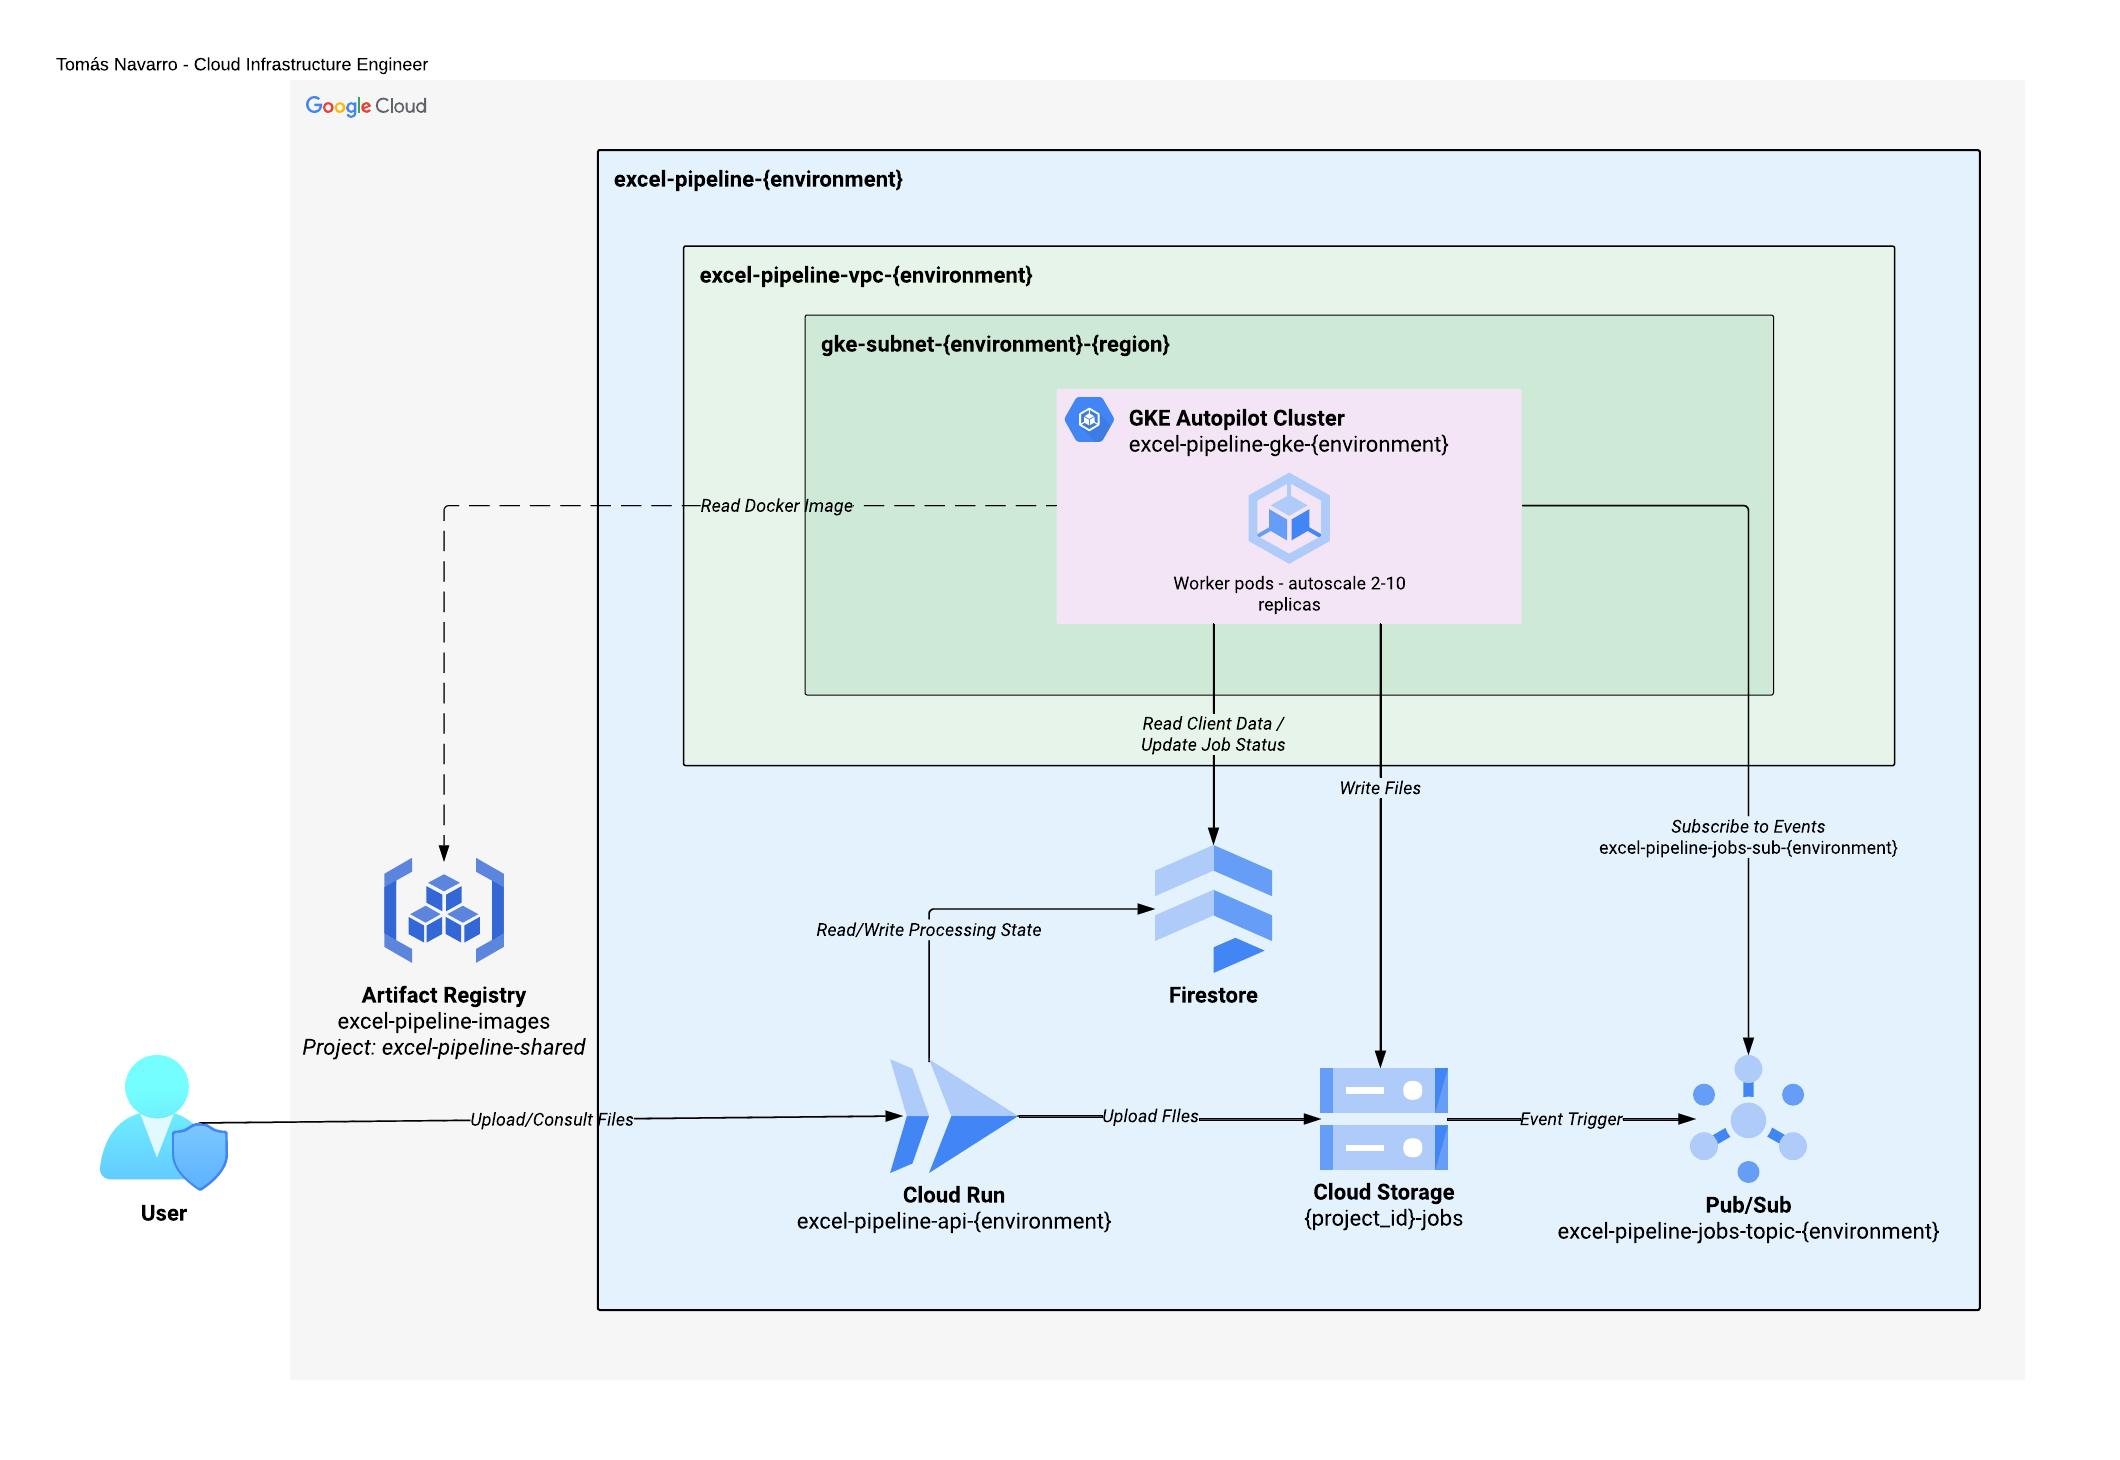
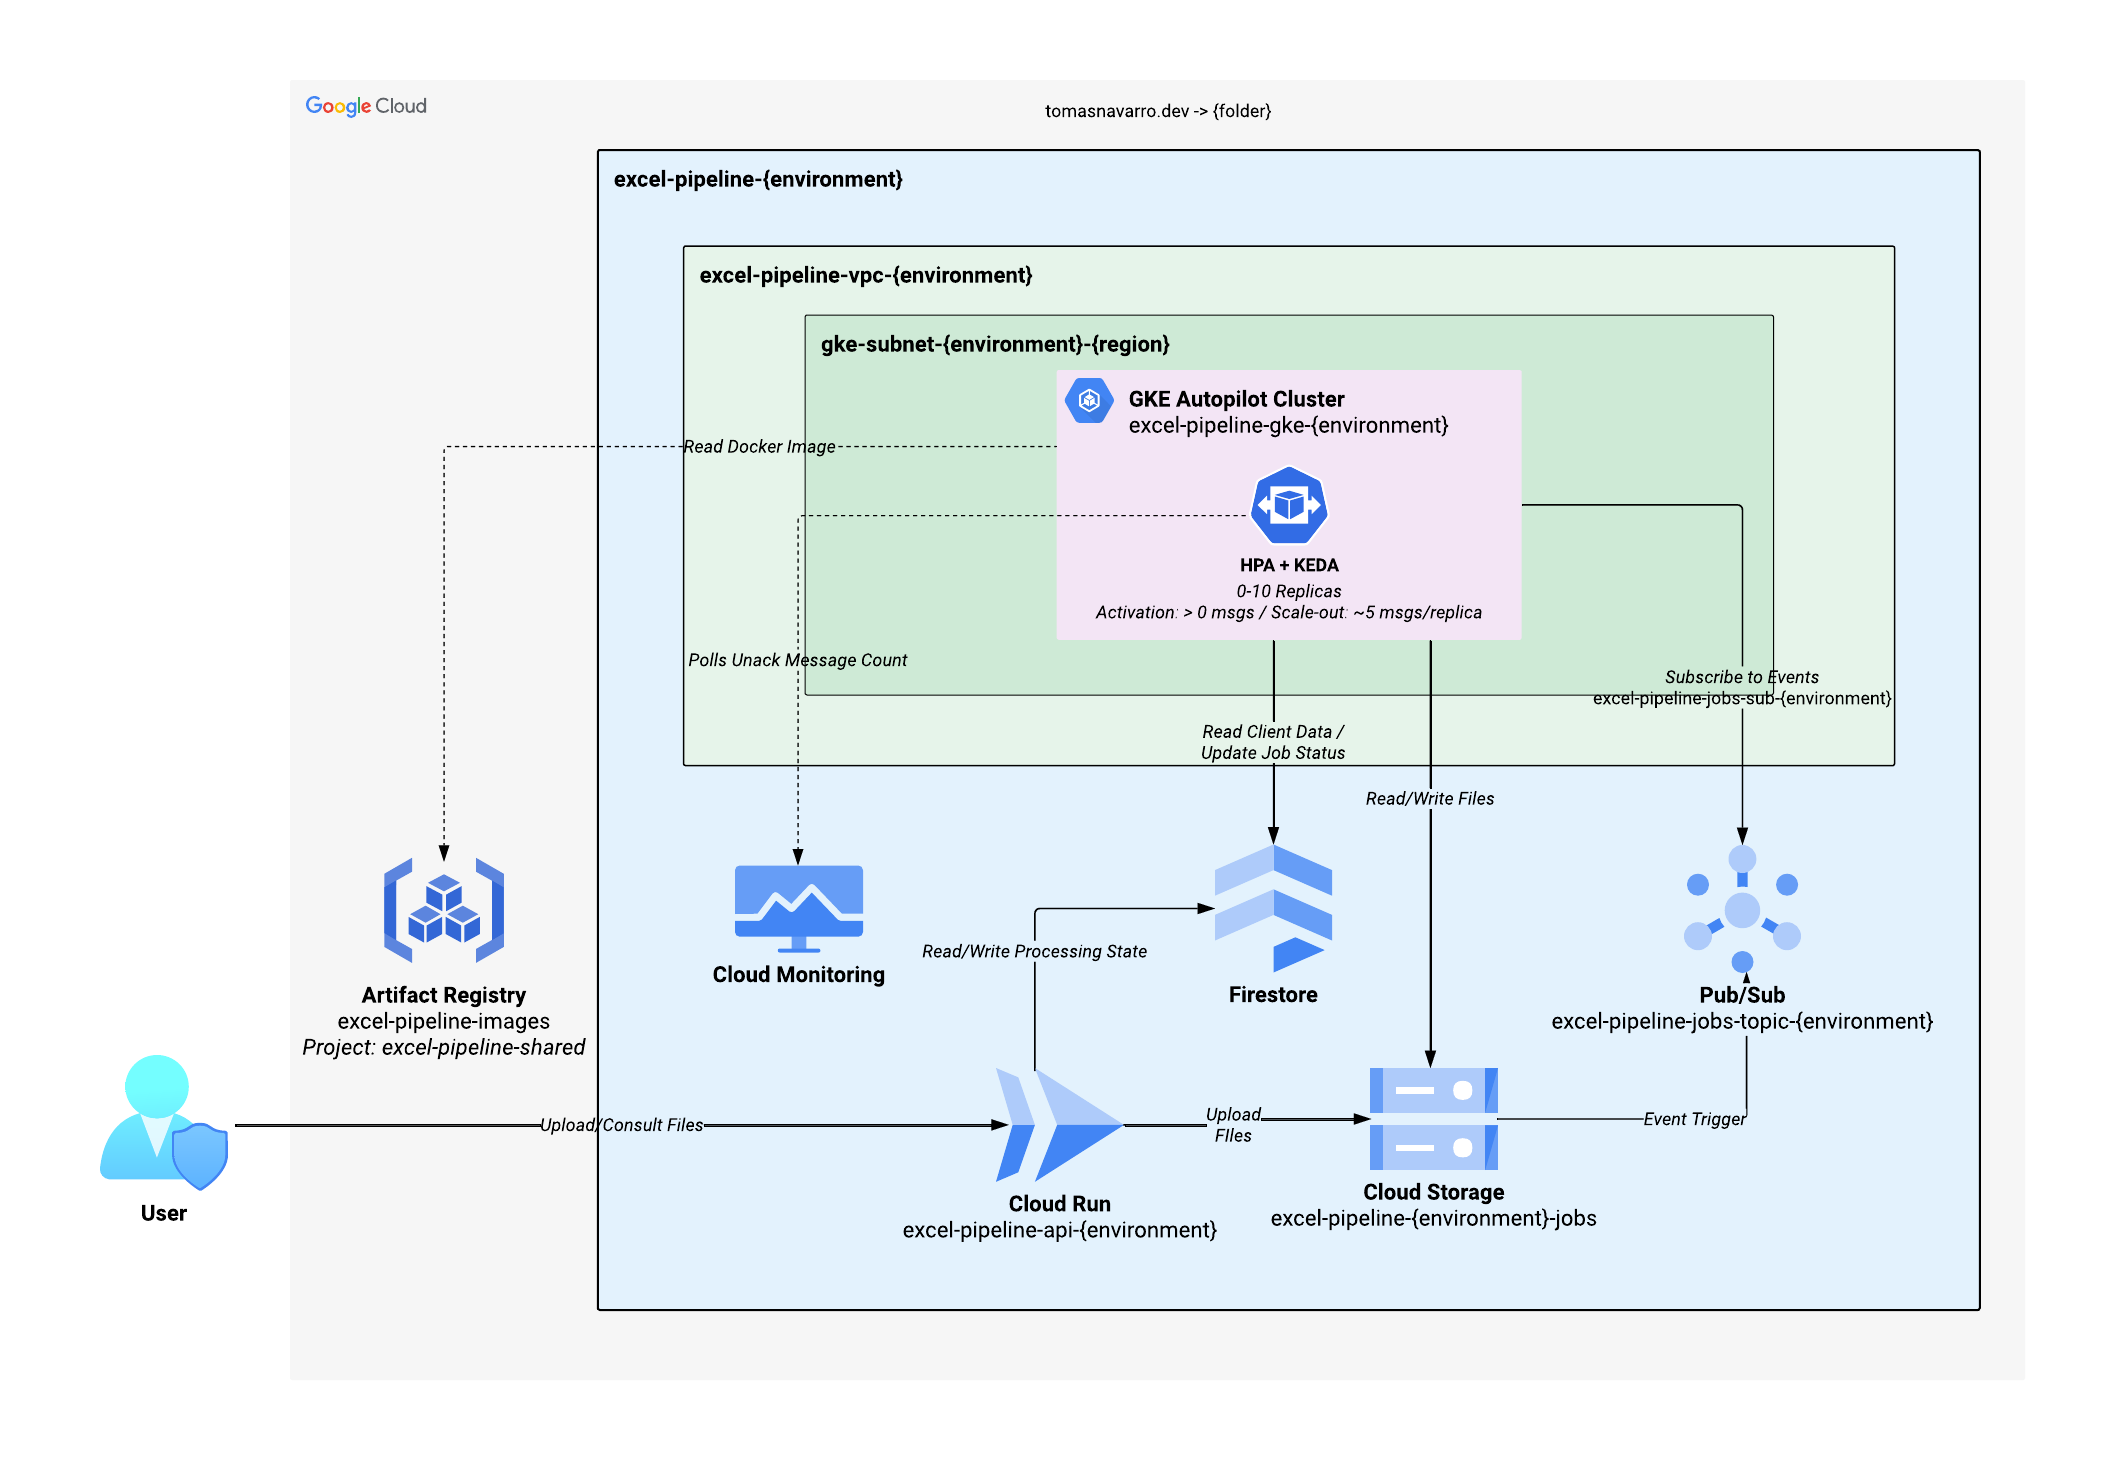
docs: update architecture diagram and README status for KEDA design
Archives the pre-KEDA diagram under docs/architecture/history/ and
replaces the canonical one with the event-driven/scale-to-zero
version. README now reflects networking as done, adds an "in
progress" status for gke (Autopilot, DNS-based control plane
endpoint, KEDA), clarifies Kustomize's scope now that KEDA installs
via Terraform/Helm, and lists KEDA/Helm/Cloud Monitoring in the tech
stack.

diff --git a/README.md b/README.md
@@ -16,7 +16,8 @@ An asynchronous Excel file processing pipeline on Google Cloud:
   (`OBJECT_FINALIZE`) — the API never publishes the event itself, to avoid a
   dual-write.
 - A **worker on GKE** consumes the event, processes the file, writes the
-  result back to GCS, and updates the job status.
+  result back to GCS, and updates the job status — scaling event-driven via
+  **KEDA**, down to 0 replicas at rest, instead of an always-on pod.
 - Dev and prod are fully separate GCP projects (isolated IAM, quotas, and
   billing), each under its own Folder in a Cloud Identity organization.
 - Infrastructure is managed with **HCP Terraform**, authenticating to GCP
@@ -95,19 +96,34 @@ per-project deployer identity (see `terraform/platform/governance/wif.tf`).
       workspaces to use.
 - [x] IAM groups/roles reference table and diagramming style guide.
 - [x] Architecture diagram.
+- [x] `terraform/domains/networking`: VPC, GKE node subnet, and pod/service
+      secondary IP ranges for dev/prod, via
+      `terraform-google-modules/network`.
+
+### In progress (as of 2026-09-22)
+
+- [ ] `terraform/domains/gke`: a hand-written `google_container_cluster` in
+      Autopilot mode (not the official module — deliberate, see the
+      devlog), reached only via a DNS-based control plane endpoint (no
+      bastion, no `master_authorized_networks` to maintain). The worker
+      scales event-driven, via KEDA (`Deployment` + `ScaledObject`,
+      0 replicas at rest, scaling in response to Pub/Sub backlog) instead
+      of an always-on replica. `governance` side (the `keda-operators-{env}@`
+      group and its IAM split) is designed but not yet pushed.
 
 ### Next steps
 
-- [ ] `terraform/domains/networking`: VPC and subnets for dev/prod.
 - [ ] `terraform/domains/registry/shared`: the Artifact Registry repo, the
       Cloud Build ↔ GitHub connection (2nd-gen), and build triggers.
 - [ ] Resource-scoped IAM bindings (`gke-workloads`, `app-runtime`,
       `api-invokers`, `ci-cd-pipelines` roles), attached by each domain as
       it creates its own resources.
-- [ ] `terraform/domains/{gke,data,cloud-run}` implementation (currently
+- [ ] `terraform/domains/{data,cloud-run}` implementation (currently
       scaffolded, not yet implemented).
-- [ ] The FastAPI API and the GKE worker.
-- [ ] Kustomize manifests.
+- [ ] The FastAPI API and the GKE worker's own application code.
+- [ ] Kustomize manifests for the worker's `Deployment`/`ScaledObject` —
+      KEDA itself is installed via Terraform (`helm_release`, in
+      `terraform/domains/gke`), not Kustomize.
 
 A detailed, chronological log of decisions and problems solved along the way
 lives in [`docs/devlog/bitacora.md`](docs/devlog/bitacora.md) (in Spanish).
@@ -123,4 +139,5 @@ lives in [`docs/devlog/bitacora.md`](docs/devlog/bitacora.md) (in Spanish).
 ![Docker](https://img.shields.io/badge/Docker-2496ED?logo=docker&logoColor=white)
 
 Google Cloud (Cloud Run, GKE Autopilot, Firestore, GCS, Pub/Sub, Cloud
-Identity/IAM) · Terraform + HCP Terraform · FastAPI · Docker · Kustomize
+Monitoring, Cloud Identity/IAM) · Terraform + HCP Terraform · KEDA · Helm ·
+FastAPI · Docker · Kustomize
